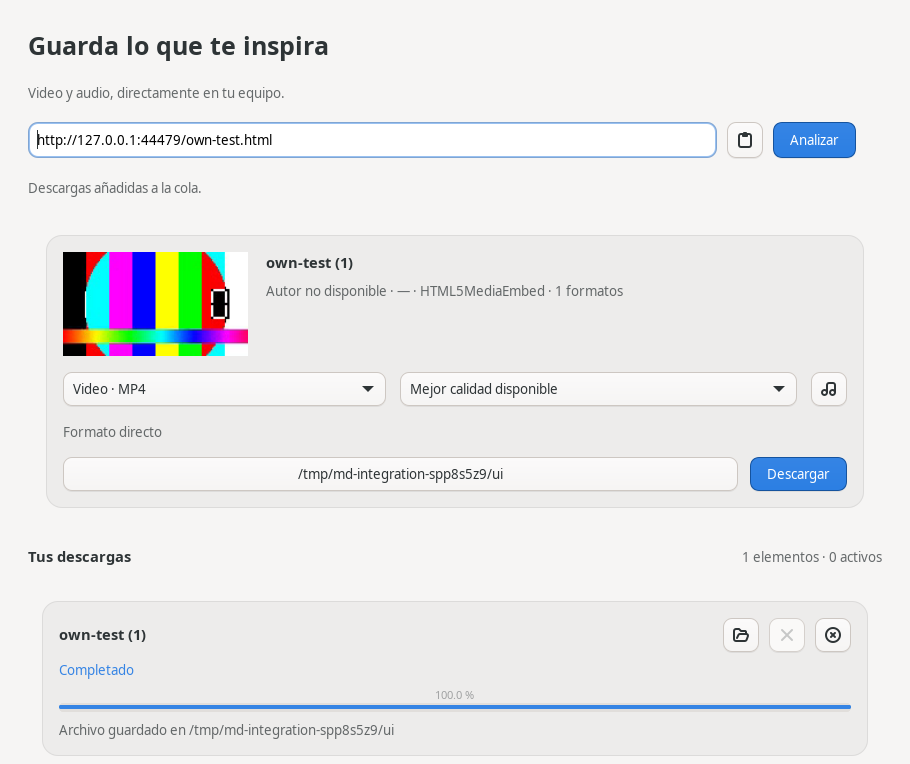
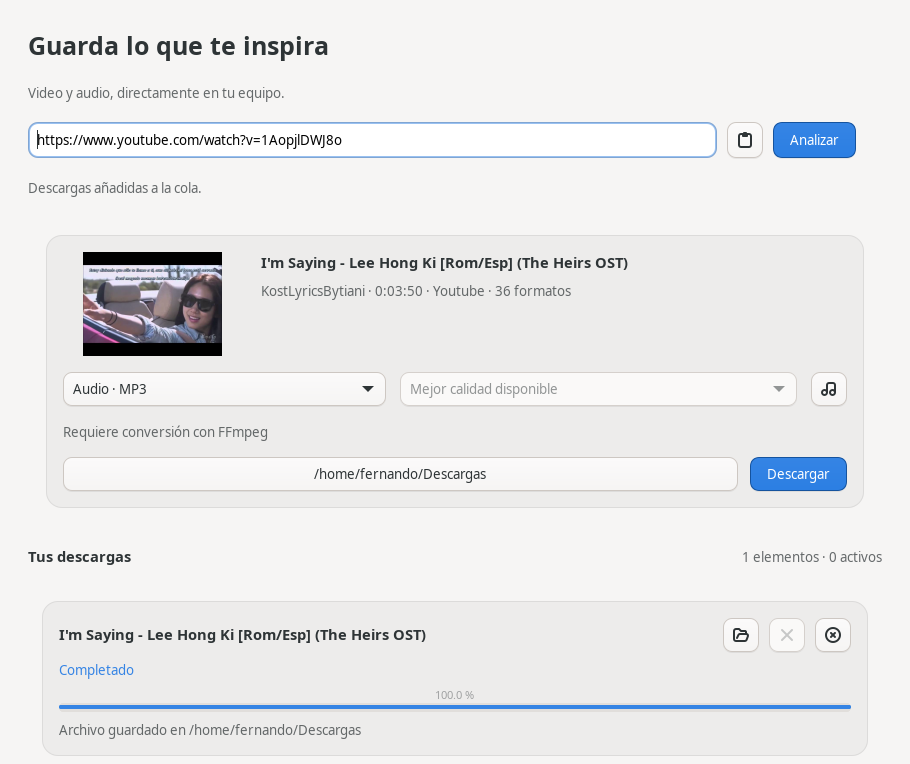
Show verified YouTube MP3 download and fix CI accessibility setup

diff --git a/tests/test-ui.c b/tests/test-ui.c
@@ -43,7 +43,10 @@ static void capture(GtkWindow *window) {
 static gboolean drive(gpointer data) {
     (void)data;
     ticks++;
-    if (ticks > 900)
+    guint timeout = g_getenv("MD_UI_TIMEOUT")
+                        ? (guint)g_ascii_strtoull(g_getenv("MD_UI_TIMEOUT"), NULL, 10) * 10
+                        : 900;
+    if (ticks > timeout)
         g_error("UI integration timed out at step %u", step);
     GtkWindow *window = gtk_application_get_active_window(app);
     g_assert_nonnull(window);
@@ -62,7 +65,13 @@ static gboolean drive(gpointer data) {
         GtkWidget *download = find_widget(root, GTK_TYPE_BUTTON, "Descargar");
         if (!gtk_widget_get_sensitive(download))
             return G_SOURCE_CONTINUE;
-        g_assert_nonnull(find_widget(root, GTK_TYPE_LABEL, "own-test"));
+        const gchar *expected = g_getenv("MD_UI_TITLE");
+        g_assert_nonnull(find_widget(root, GTK_TYPE_LABEL, expected ? expected : "own-test"));
+        if (g_getenv("MD_UI_AUDIO")) {
+            GtkWidget *format = find_widget(root, GTK_TYPE_DROP_DOWN, NULL);
+            gtk_drop_down_set_selected(GTK_DROP_DOWN(format), 3);
+            g_assert_true(gtk_widget_get_sensitive(download));
+        }
         g_signal_emit_by_name(download, "clicked");
         step++;
     } else if (step == 2) {

diff --git a/docs/VALIDATION.md b/docs/VALIDATION.md
@@ -23,13 +23,30 @@ no host packages or global system settings were changed.
   without reported errors, plus optimized-release integration.
 - GTK widgets on an isolated Xvfb display with fatal GLib warnings: analysis,
   enabled/disabled controls, downloaded and converted thumbnail, download,
-  completion and clean close. Screenshot shows only generated test content.
+  completion and clean close. The initial screenshot used generated test content.
 - Debian package creation, contents inspection and dynamic dependency generation.
 - APT installation in disposable Ubuntu 24.04 containers, desktop-file validation,
   linkage checks, startup as an unprivileged test user, and APT purge with removal
   of the binary, desktop entry and icon. The same packaging procedure was verified
   before the final optimization and presentation refinements; final release
   artifacts are also staged and inspected locally.
+
+## Owner-requested real YouTube MP3 test
+
+On 2026-10-11, the owner-provided video `1AopjlDWJ8o` was analyzed and downloaded
+through the actual GTK interface as MP3 into the requested Downloads folder.
+The radio/playlist parameters were omitted so only that video was downloaded.
+ffprobe confirmed one MP3 audio stream, no video stream, duration 229.564 seconds
+and size 6,639,177 bytes. The README screenshot records the completed job.
+The downloaded audio remains outside the repository.
+
+The system yt-dlp 2025.09.05 failed YouTube extraction. The successful test used
+a workspace-only official yt-dlp 2026.08.19 executable (SHA-256 checked against
+the release checksum list), its bundled EJS components, and already-installed
+Node 22.23.3. Node was explicitly enabled for the test through a local launcher.
+No system installation was modified, and no cookies or authentication bypasses
+were used. Consult the upstream EJS guide for current engine setup requirements.
+This verifies the supplied video, not every YouTube video or source website.
 
 ## Practical limits / not verified
 

diff --git a/README.md b/README.md
@@ -23,13 +23,16 @@ interface is in Spanish; contributor documentation is in English.
   settings; completion notifications and optional folder opening.
 - MIT-licensed original code and icon. yt-dlp and FFmpeg remain external dependencies.
 
-![Application with locally generated test media](docs/images/main-window.png)
+![Completed MP3 download from the owner-provided YouTube URL](docs/images/main-window.png)
 
 ## Requirements
 
 Ubuntu 24.04 or a compatible Debian-based distribution, GTK >= 4.6,
 GLib / GIO >= 2.70, JSON-GLib >= 1.6, yt-dlp >= 2023.03.04 and FFmpeg.
 Source sites evolve: use an appropriately maintained yt-dlp installation.
+For current YouTube extraction, yt-dlp also needs its EJS components and a
+supported JavaScript runtime; see the [upstream EJS setup guide](https://github.com/yt-dlp/yt-dlp/wiki/EJS).
+These are external engine requirements; the application and interface remain C11.
 The Ubuntu-built `.deb` uses Ubuntu ABI package names; build a package on Debian
 for Debian rather than assuming Ubuntu binaries are interchangeable.
 

diff --git a/THIRD_PARTY.md b/THIRD_PARTY.md
@@ -17,3 +17,8 @@ libraries. yt-dlp and FFmpeg run as external system programs. Redistributors
 must respect the license and source availability requirements of any dependency
 binaries they separately distribute. Debian copyright information is normally
 available in /usr/share/doc/<package>/copyright.
+
+The README screenshot displays metadata and a thumbnail from the owner-provided
+YouTube video. Third-party media and artwork shown in that screenshot retain
+their respective rights and are not covered by the application's MIT license.
+The downloaded MP3 is not included in the repository or package.
